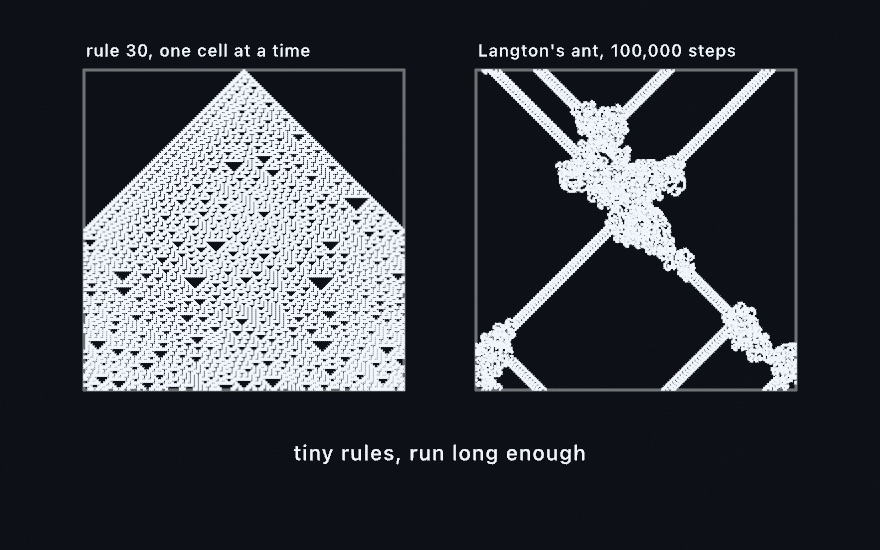
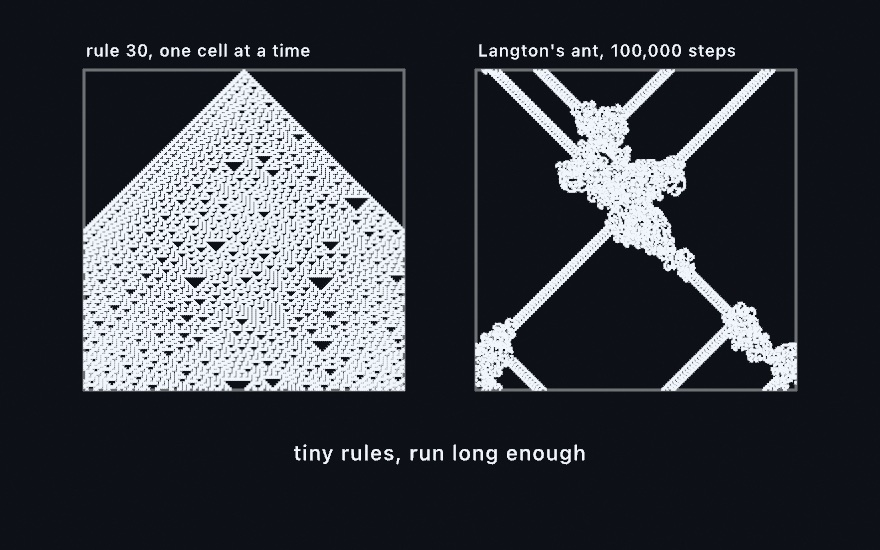
Rule 30's panel is rendered from its wider row, and the design notes file a second ray tie. The figure runs 321 cells for 161 generations and draws the middle 161 columns, so the triangle reaches the panel's sides halfway down and the boundary never scrambles the lower half; both themes are re-rende
Claude-Session: https://claude.ai/code/session_01WqLtBAH3GLezrn1E1FY2W7

Changed region(s): [[0.092, 0.4327, 0.2761, 0.7109], [0.3989, 0.4327, 0.4602, 0.7109]]

diff --git a/DESIGN-NOTES.md b/DESIGN-NOTES.md
@@ -270,7 +270,7 @@ A standing track, not a one-time task: keep mining Swift idioms to make the API 
 - **What the picture reads of the Guide left (read 2026-09-30, beside what they fixed).** *A probe plane on a room's open end*: the bounced-light figure's walls showed a ragged dark seam a few texels wide at their front edge, wavy at three times, and the floor and ceiling darkened smoothly at theirs. Worked through by hand, the fitted probe volume (the room padded by 1.3, ten probes along x and z) put a plane of probes a few hundredths outside each wall's outer face and the room's open face, so a row of probes sat on the walls' front outer corners, seeing black outside and unlit outer faces, and their trilinear weight on the inner face near its end was about half; the Chebyshev visibility test then flipped them in and out along its 16-texel depth tile's grid, which is the wavy edge, and relocation never moved them because their front hits did not oppose. Extending the room past the camera moved the open ends off any plane and the seam went with them, which is the figure's fix. The framework's would be to place the fitted grid so a bounding face sits mid-cell rather than on a plane, or to let relocation push a probe within `minFront` of a front face whether or not its hits oppose; neither was tried, and the by-hand numbers want checking against `encodeGIPass`'s origin, spacing and counts for that frame before either is.
 - **What a sketch that measures its own marks left (read 2026-09-30, beside a peer's wake field).** A `Sim.shader` kernel wanted this frame's `Filter.distanceField()` of the drawn mass as an input, and there is no route to it: filters resolve after every layer has drawn and after the sims have stepped, so a filtered layer cannot be an input, and a layer that draws a filtered image draws it empty (measured: a field copying such an input reads zero at every frame). A frame-stale reading would serve a wake as well as a live one, so the shape wanted is a filtered layer that a sim may name as an input and reads as the previous frame's resolve, kept in a texture of its own rather than the pool; the drawing model's rule that a layer holds only what was drawn this frame is what the design has to settle against. Until then the kernel measures what it needs itself, or the sketch carries the sign in a color channel and copies a drawn layer, which does arrive verbatim where its alpha is above zero.
 - **A `@Param` read costs about 40 ns (measured 2026-09-26 on the M2, optimized).** A plain stored property reads in under one. The getter takes the value's lock and clamps it through the generic `ParamValue` witness, which a sketch cannot specialize across the module boundary, so a loop reading parameters per vertex pays it every time (a sketch recoloring 160,000 vertices from seven parameters spent 43 ms a frame on the reads). The pages say to read parameters into locals before such a loop. A cheaper read is a design question: a clamped copy written wherever the value changes would make the read a load, but only if every write happens on the main thread, and the bindings, the inspector, the glide, and the reload carry would each have to be read for that first.
-- **What the same-seed pass left (read 2026-09-26, beside what it fixed).** Two causes are larger than a pass's fix, and a third was found on 2026-09-30. *A reflection ray on a tie*: a ray that meets two surfaces at one distance, a cylinder's base cap lying on the floor's top face, gets whichever the intersector reaches first, and that follows the acceleration structure the driver built for that process, so one pixel of a same-seed export came back half a percent different about one run in three, and no other pixel moved (found in the Upscaling example by float exports, which see a difference the 8-bit picture hides unless it crosses a level; it went with `rayTracedReflections()` and vanished with the bases lifted a thousandth). A rule that makes the tie deterministic needs the structure built non-opaque and every candidate compared by distance and then by primitive index in the query loop, a cost on every traced ray, reflection, shadow, and thickness alike, so it waits for a scene that shows it at more than a pixel; the example stands its geometry a hair above the floor instead, and says why. *A detector in step with the export*: a sketch that reads a detector exports a different picture from run to run (seven examples at the media's frame), because each reading lands at a wall-clock moment rather than on the export's clock. A still feed republishes from its own thread four times a second. Each analysis runs on a detached task and drops frames while one is in flight, and a Core ML tracker lets frames pass until its model loads. So which frames the trackers have answered by frame 480 depends on how fast the export ran. One case never answers at all: `DepthCloud`'s model loaded through the `OllinLive` route but not inside its release product after 2,000 held draws, which reads as a load that waits on the main thread an export does not give back until it ends. The shape that would make it repeat has three parts. Under a headless drive, `VisionAnalyzer.submit` analyzes inline and waits; the main thread is no cooperative worker, but each tracker's analysis has to be read for a hop to the main actor before that wait can be trusted. A model tracker awaits its load instead of passing frames by. And a still feed publishes on the export's clock at its own rate, through a per-frame hook: a feed built in a property initializer starts before the headless flag is up, and a tracker the sketch does not hold is invisible to the `FrameAdvancing` pass. The cost is an analysis per published frame in every vision export. A stand-in camera of a sketch's own (`TrajectoryTracking`'s launcher, on a 30 fps thread) needs the same clock. *An export of a `noLoop()` sketch*: the window draws such a sketch once, but every export driver calls `draw()` for every frame up to the one asked for. A draw that rolls the sketch's dice therefore exports a different picture than the window shows, and `Shapes/Watercolor` (about four seconds a draw) takes half an hour to reach the media's frame. Holding the last drawn frame once `isLooping` goes false would match the window. It moves the media stills, and perhaps figures, of every such sketch whose draw rolls dice, so it wants a pass that renders them again together.
+- **What the same-seed pass left (read 2026-09-26, beside what it fixed).** Two causes are larger than a pass's fix, and a third was found on 2026-09-30. *A reflection ray on a tie*: a ray that meets two surfaces at one distance, a cylinder's base cap lying on the floor's top face, gets whichever the intersector reaches first, and that follows the acceleration structure the driver built for that process, so one pixel of a same-seed export came back half a percent different about one run in three, and no other pixel moved (found in the Upscaling example by float exports, which see a difference the 8-bit picture hides unless it crosses a level; it went with `rayTracedReflections()` and vanished with the bases lifted a thousandth). A rule that makes the tie deterministic needs the structure built non-opaque and every candidate compared by distance and then by primitive index in the query loop, a cost on every traced ray, reflection, shadow, and thickness alike, so it waits for a scene that shows it at more than a pixel; the example stands its geometry a hair above the floor instead, and says why. The milestone of 2026-09-30 found a second instance in the Convertible recreation, mirror and painted-glass plates on a plaster kite under `rayTracedReflections()`: one pixel two levels apart at (616, 699), one run in three, the rest of the picture the same. *A detector in step with the export*: a sketch that reads a detector exports a different picture from run to run (seven examples at the media's frame), because each reading lands at a wall-clock moment rather than on the export's clock. A still feed republishes from its own thread four times a second. Each analysis runs on a detached task and drops frames while one is in flight, and a Core ML tracker lets frames pass until its model loads. So which frames the trackers have answered by frame 480 depends on how fast the export ran. One case never answers at all: `DepthCloud`'s model loaded through the `OllinLive` route but not inside its release product after 2,000 held draws, which reads as a load that waits on the main thread an export does not give back until it ends. The shape that would make it repeat has three parts. Under a headless drive, `VisionAnalyzer.submit` analyzes inline and waits; the main thread is no cooperative worker, but each tracker's analysis has to be read for a hop to the main actor before that wait can be trusted. A model tracker awaits its load instead of passing frames by. And a still feed publishes on the export's clock at its own rate, through a per-frame hook: a feed built in a property initializer starts before the headless flag is up, and a tracker the sketch does not hold is invisible to the `FrameAdvancing` pass. The cost is an analysis per published frame in every vision export. A stand-in camera of a sketch's own (`TrajectoryTracking`'s launcher, on a 30 fps thread) needs the same clock. *An export of a `noLoop()` sketch*: the window draws such a sketch once, but every export driver calls `draw()` for every frame up to the one asked for. A draw that rolls the sketch's dice therefore exports a different picture than the window shows, and `Shapes/Watercolor` (about four seconds a draw) takes half an hour to reach the media's frame. Holding the last drawn frame once `isLooping` goes false would match the window. It moves the media stills, and perhaps figures, of every such sketch whose draw rolls dice, so it wants a pass that renders them again together.
 - **What the file harness left (read 2026-09-24, beside the traps it fixed).** Two things are larger than a reader's fix. *Most walks of a scene recurse*: the world transforms, the posing, `normalizeLightSpecs`, `withNode`, the draw. A scene nests at most 64 levels because of them (the depth a background thread's 512 KB holds with half to spare in a debug build); walks with a list of their own, as the two scene builders, `Scene.bounds` and the USD merge have, would lift that to whatever a model holds. *The physics calls pass a number straight to the solver*: a sketch that sets `world.ground = .infinity` or a body's velocity to NaN stops a debug build inside Jolt, which checks for it there; the snapshot reader refuses such numbers from a file, and checking them where they cross into the bridge would cover a sketch's own the same way.
 - **More idiom candidates.** Trailing-closure scoping beyond `withState { }` (already the model, as is the `drawShape { p in … }` path builder); `@dynamicMemberLookup` only where it genuinely clarifies. The richest seam so far has been **conforming Ollin's types to the protocols the standard library already understands**, since that hands a sketch the whole library rather than one new call: a type that is a sequence of things says so, and a type that generates randomness is reachable wherever `using:` is asked for. Look for the rest of that shape (an ordered set of values that still hides behind a stored array, a value with a natural stride or ordering) before inventing spellings. Two literal conformances were weighed and left out on the bar below: `ExpressibleByArrayLiteral` on `Palette` loses the type name that `Palette(.red, .white)` already carries, and `ExpressibleByIntegerLiteral` on `Color` would let any stray integer become a color, which is shorter and less clear. Four collection candidates went the same way, and the reasons generalize to the next one: `Path` keeps pen *commands*, not points, so the element a collection would hand back has to be sampled and a subscript would re-sample the whole curve to answer for one point; `Rhythm` would arrive with `count` saying exactly what its own `length` says, over a run of `Bool`s nobody walks, while `onsets` is the read people actually want; `Ramp` has a `reversed` *property* returning another ramp, which a `reversed()` method returning a list of stops would sit one pair of parentheses away from, meaning something else; and a document carrying several parallel lists (`Automation`, `MIDIFile`, `Timeline`) has no single list that is "the" content, so picking one to be the elements is a coin toss the reader has to remember. Two shapes to watch for on the way in: a conformance that quietly redefines an existing call (a geometric `contains` becoming a membership test), and `Sequence` shadowing the global two-argument `min`/`max` inside the type's own extensions, which is a compile error at every bare call site. The bar: an idiom earns its place when it makes the call clearer, not just shorter, and never at the cost of the bare-call feel or the typed-core split.
 
